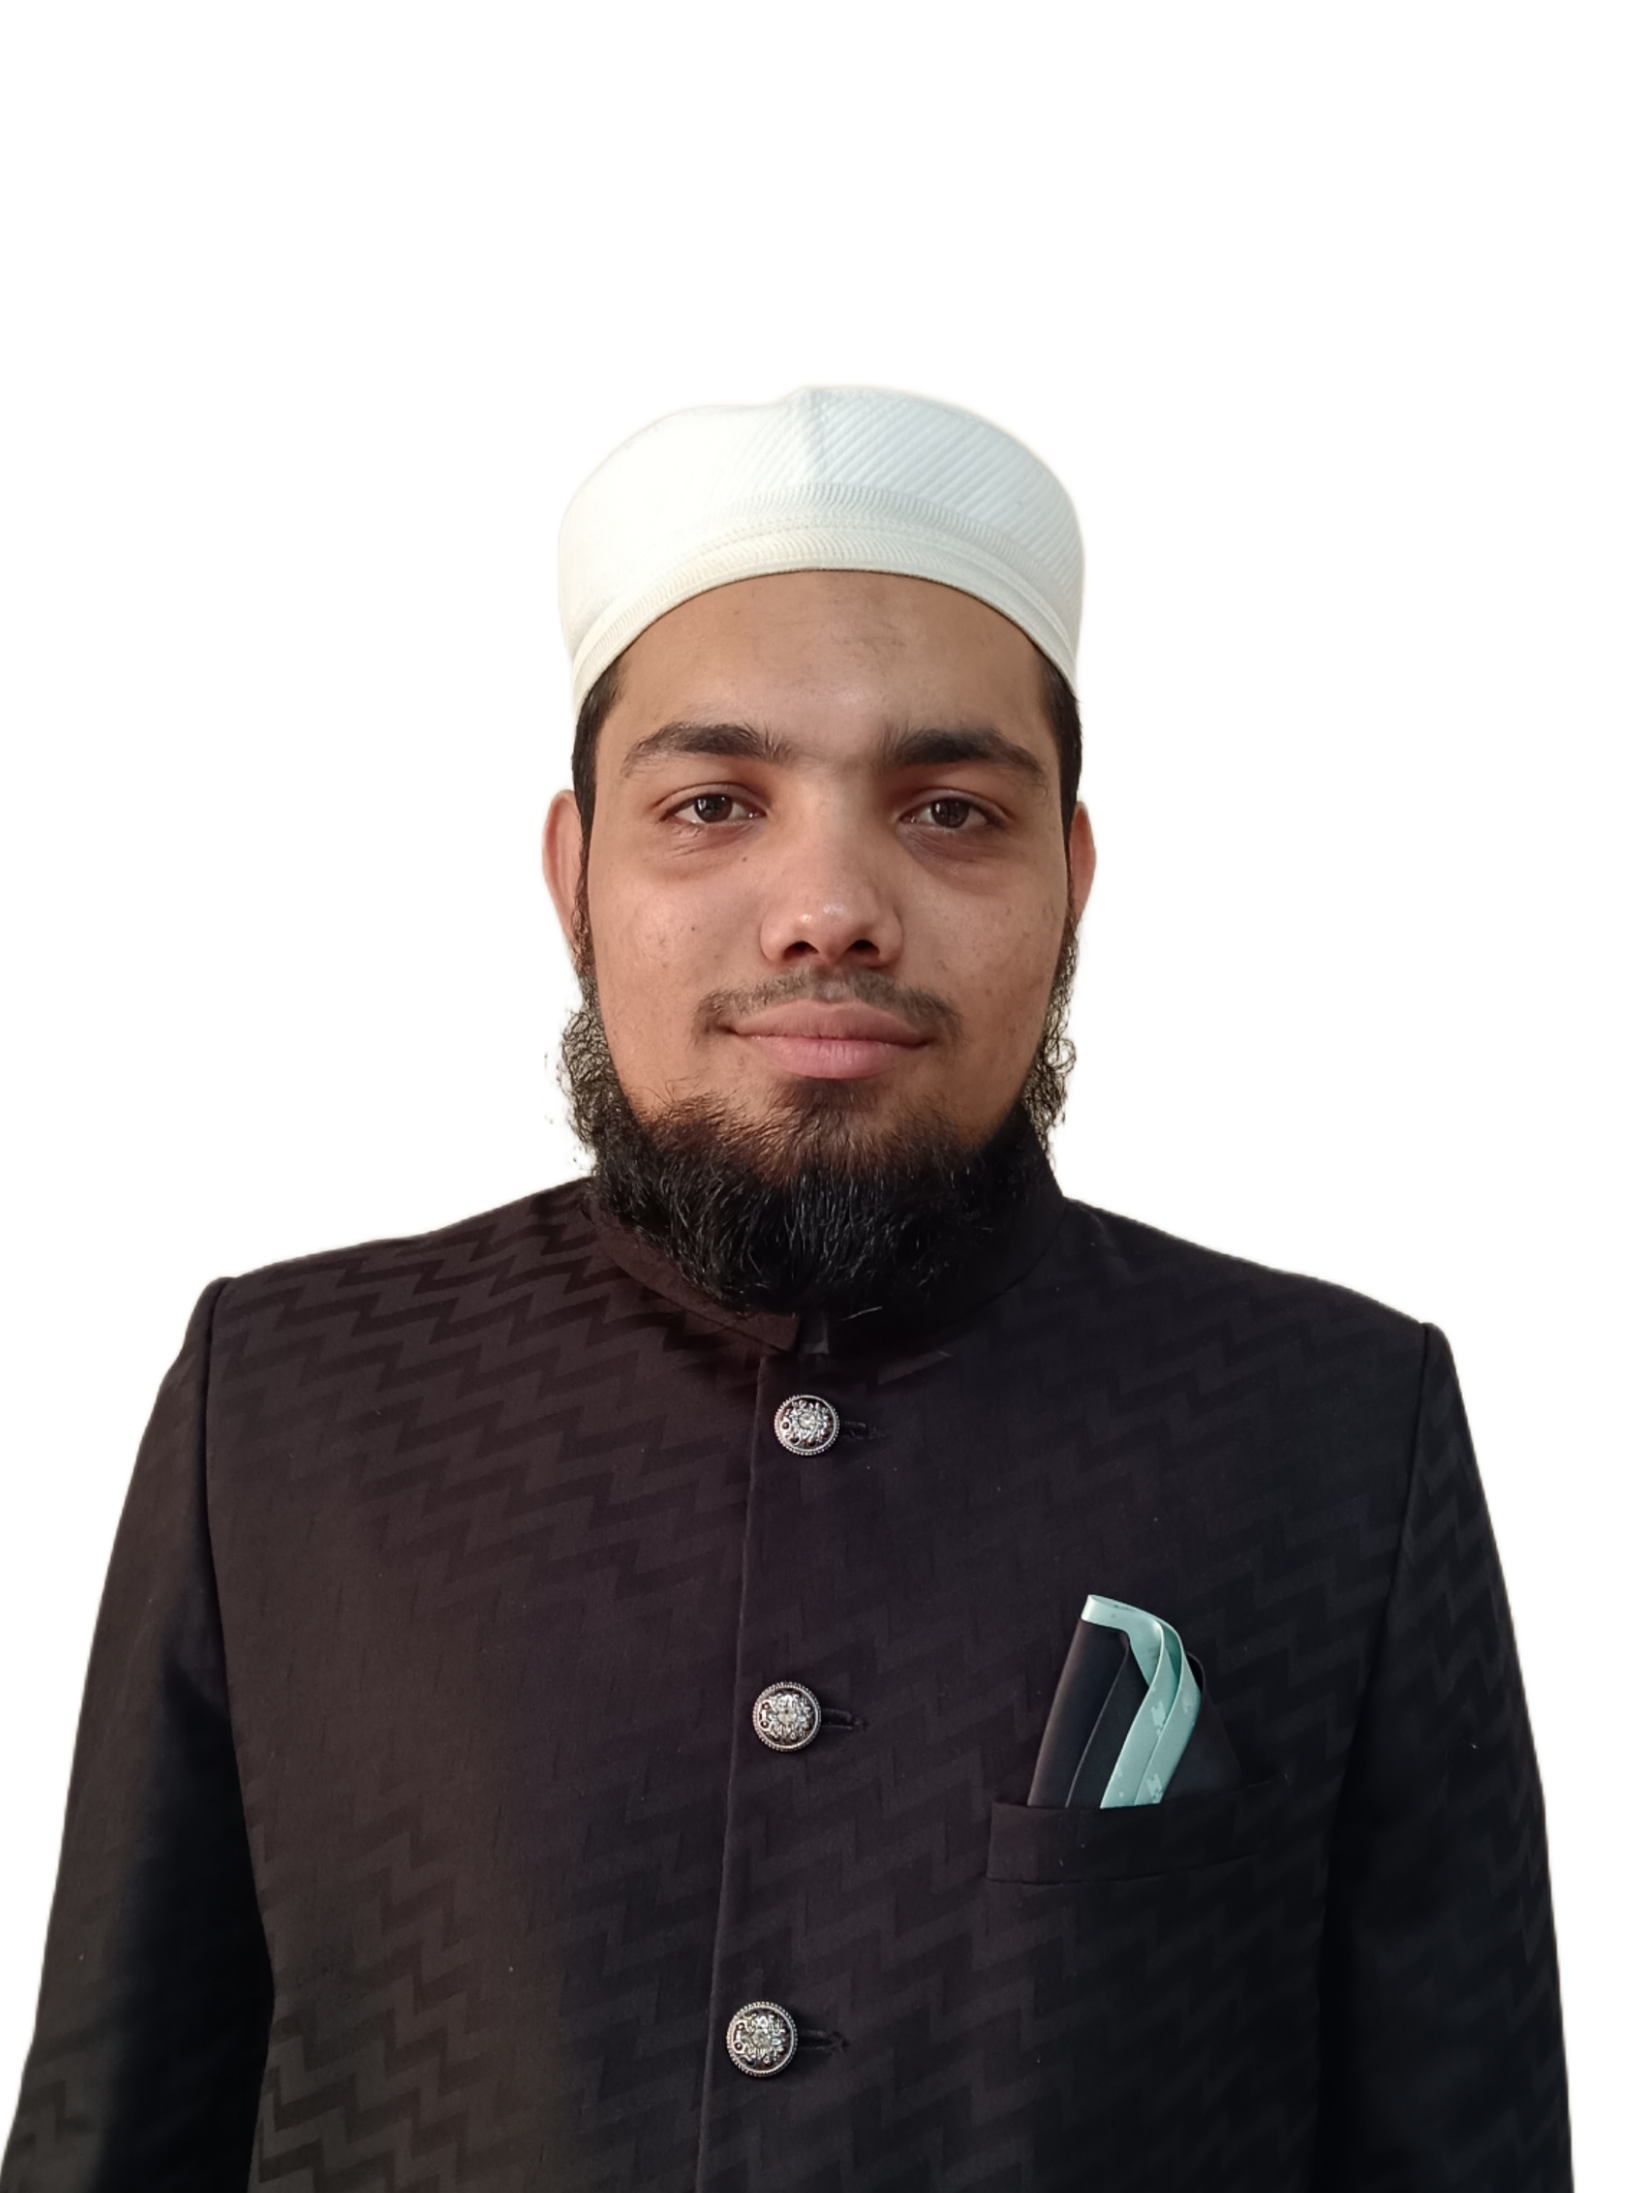
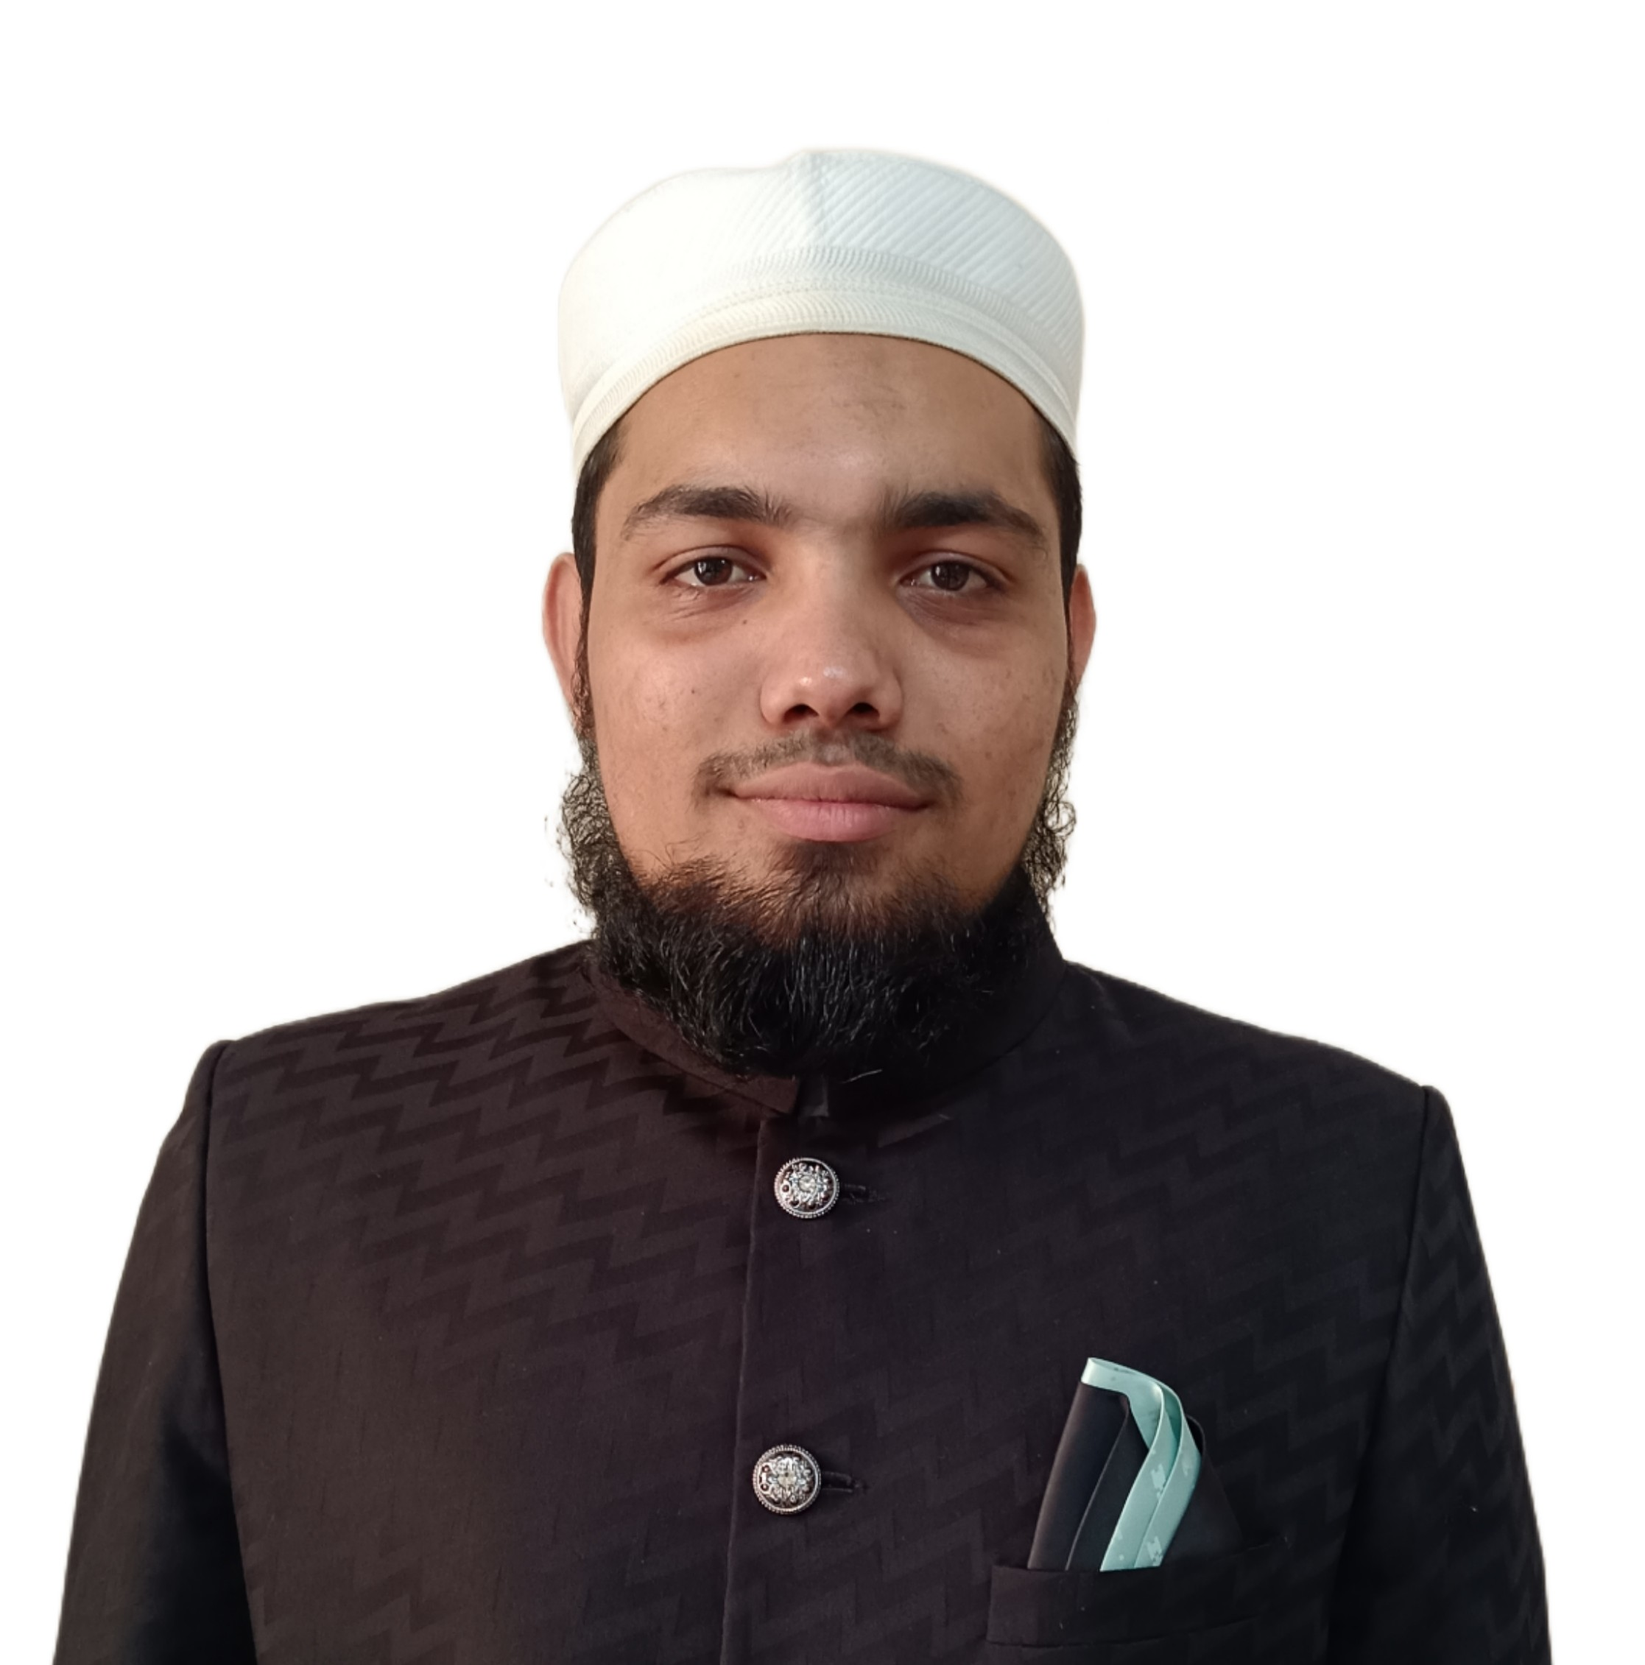
Profile

Changed region(s): [[0.0, 0.0929, 0.9575, 1.0], [0.6177, 0.7121, 0.7413, 0.9598], [0.4324, 0.8669, 0.5251, 0.9598]]

diff --git a/index.html b/index.html
@@ -22,7 +22,7 @@
     <meta property="og:title" content="MuhammadShakil Patel | Software Architect & Full-Stack Engineer">
     <meta property="og:description"
         content="Software Architect specializing in Microservices, Full-Stack Development, and Enterprise SaaS Solutions. Award-winning developer with expertise in .NET Core, Jakarta EE, React.js, and Android Jetpack Compose.">
-    <meta property="og:image" content="https://patelshakil.techsavvysolution.in/my_profile.png">
+    <meta property="og:image" content="https://patelshakil.techsavvysolution.in/assets/profile-white.jpg">
 
     <!-- Twitter -->
     <meta property="twitter:card" content="summary_large_image">
@@ -30,7 +30,7 @@
     <meta property="twitter:title" content="MuhammadShakil Patel | Software Architect & Full-Stack Engineer">
     <meta property="twitter:description"
         content="Software Architect specializing in Microservices, Full-Stack Development, and Enterprise SaaS Solutions.">
-    <meta property="twitter:image" content="https://patelshakil.techsavvysolution.in/my_profile.png">
+    <meta property="twitter:image" content="https://patelshakil.techsavvysolution.in/assets/profile-white.jpg">
 
     <!-- Favicons -->
     <link rel="apple-touch-icon" sizes="180x180" href="/apple-touch-icon.png">
